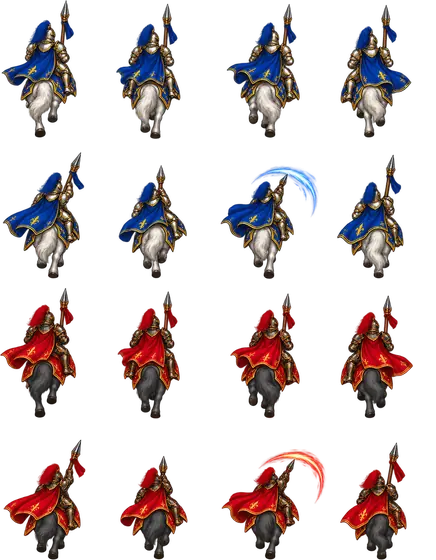
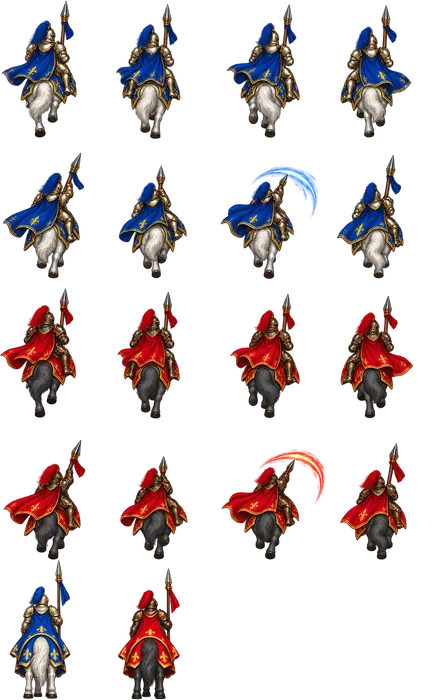
Knights skin: dedicated standing (idle) poses for all 4 directions
Claude-Session: https://claude.ai/code/session_014A9u2v94CxGcooEZKN3u8K

diff --git a/skins.js b/skins.js
@@ -410,7 +410,7 @@ for(const k in LIGHT.draw)LIGHT.draw[k]=wrap(LIGHT.draw[k]);
 
 
 /* ============ ROYAL KNIGHTS (hand-painted raster sprites: 4 walk + 4 attack frames per side) ============ */
-const RK_META={Kr:[156,121,58.8,121.8],Ku:[150,120,55.0,121.4],Kd:[122,121,58.0,121.8],Qr:[152,126,68.9,125.6],Qu:[141,127,59.6,126.8],Qd:[126,128,57.1,127.7],Br:[158,121,58.4,123.1],Bu:[102,131,51.2,131.0],Bd:[109,122,52.5,121.8],Nr:[167,137,63.0,137.8],Nu:[109,140,39.9,139.9],Nd:[104,137,46.6,137.3],Rr:[151,120,65.5,121.0],Ru:[121,121,54.2,121.4],Rd:[129,124,62.2,125.2],Pr:[163,126,58.0,127.3],Pu:[129,126,44.5,126.8],Pd:[121,128,54.2,127.7]};
+const RK_META={Kr:[156,121,58.8,121.8],Ku:[150,121,55.0,121.8],Kd:[122,121,58.0,121.8],Qr:[152,129,68.9,128.9],Qu:[141,127,59.6,126.8],Qd:[126,128,57.1,127.7],Br:[158,123,58.4,123.5],Bu:[102,131,51.2,131.0],Bd:[109,122,52.5,121.8],Nr:[167,137,63.0,137.8],Nu:[109,140,39.9,140.3],Nd:[104,137,46.6,137.3],Rr:[151,120,65.5,121.0],Ru:[121,121,54.2,121.4],Rd:[129,124,62.2,125.2],Pr:[163,126,58.0,127.3],Pu:[129,126,44.5,126.8],Pd:[121,128,54.2,127.7]};
 const RK_U=160/(534*0.42); /* local units per atlas pixel (frame = 1.6 tiles) */
 const RK_IMG={};
 const RK_DIR={r:'right',u:'up',d:'down'};
@@ -428,12 +428,12 @@ function rkFrame(o){
   if(r>.45)return r>.7?5:4;
   if(o.moving)return Math.floor((o.t||0)*5)%4;
   if(o.mood==='angry')return 6;
-  return 0;
+  return 8;
 }
 const rkDraw=t=>(c,P,o)=>{
   const dr=o.dir||'r',e=rkImg(t,dr),m=RK_META[t+dr],[mw,mh,max,may]=m;
   if(!e.ok){c.save();c.globalAlpha*=.35;c.fillStyle=P.main;c.beginPath();c.ellipse(0,-30,16,28,0,0,TAU);c.fill();c.restore();return}
-  const fr=rkFrame(o),col=fr%4,row=(P.team==='b'?2:0)+(fr>=4?1:0);
+  const fr=rkFrame(o),idl=fr===8,col=idl?(P.team==='b'?1:0):fr%4,row=idl?4:(P.team==='b'?2:0)+(fr>=4?1:0);
   const bob=o.moving?-Math.abs(Math.sin((o.ph||0)*1.6))*1.5:Math.sin(o.t*2.2+o.id)*-.6;
   const dead=o.mood==='dead';
   c.save();
